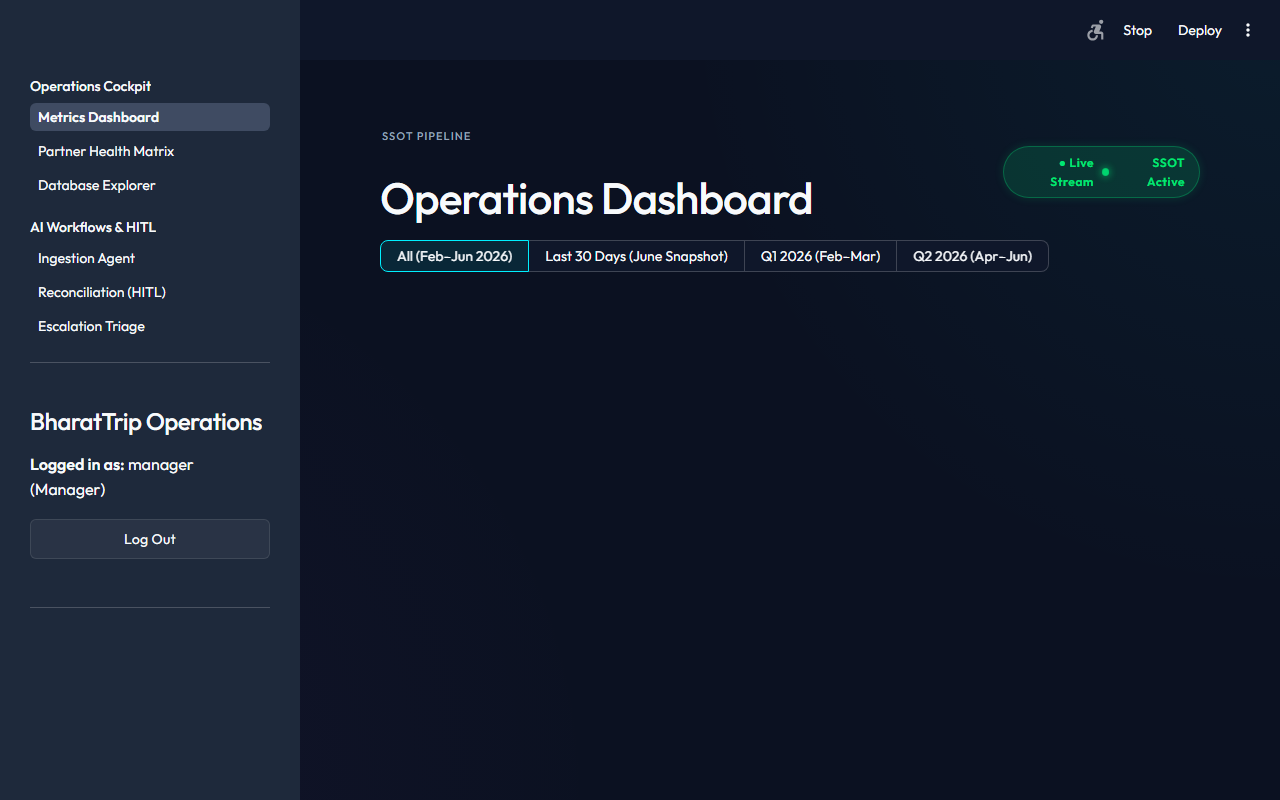
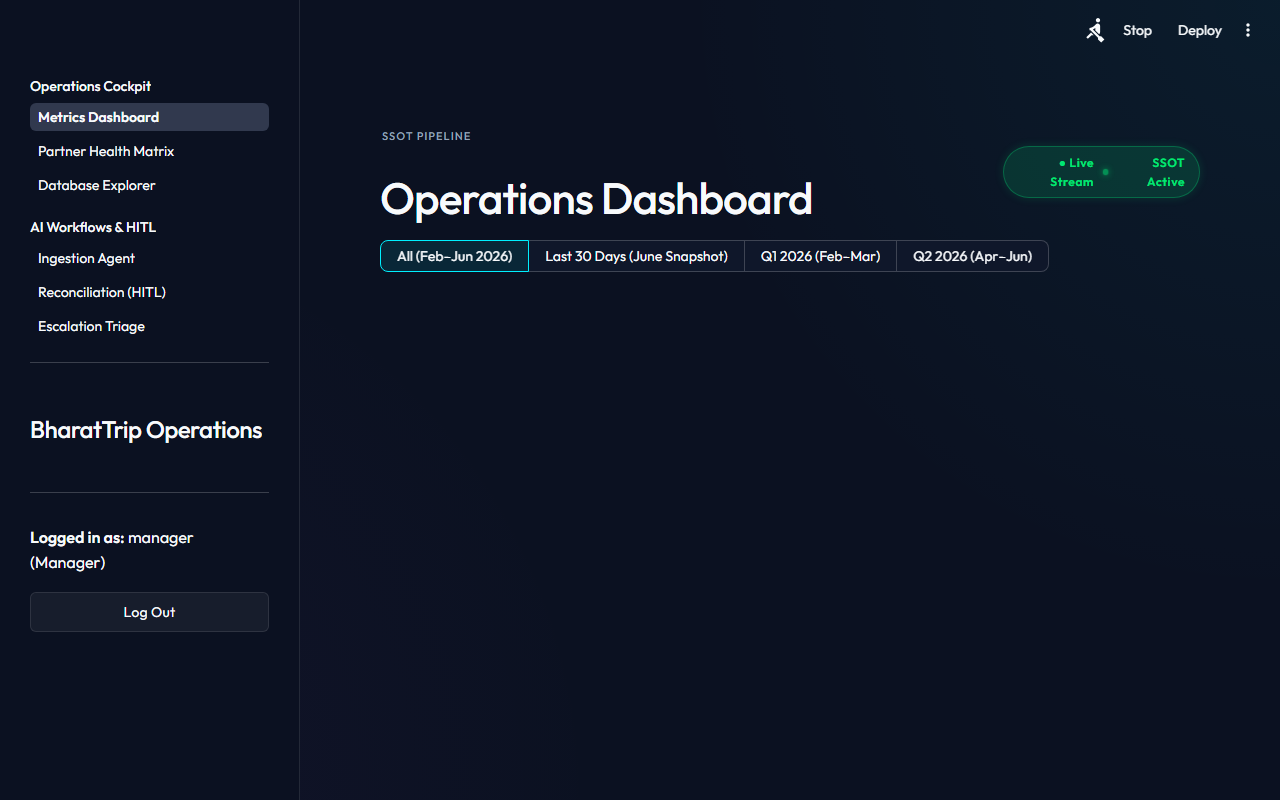
fixed hemburger menue

Changed region(s): [[0.0, 0.0, 0.25, 1.0], [0.8438, 0.0312, 0.9062, 0.0625], [0.9375, 0.0312, 0.9688, 0.0625]]

diff --git a/src/assets/style.css b/src/assets/style.css
@@ -39,6 +39,16 @@ html, body, [class*="css"], .stMarkdown, .stText, p, div, span, label, input, te
     color: var(--clr-text-primary);
 }
 
+/* Fix for Material Icons rendering as text ligatures */
+span.material-symbols-rounded,
+span.material-symbols-outlined,
+i.material-icons,
+.stIcon,
+.material-symbols-rounded,
+[data-testid="stIconMaterial"] {
+    font-family: "Material Symbols Rounded", "Material Symbols Outlined", "Material Icons", sans-serif !important;
+}
+
 h1, h2, h3, h4, h5, h6, [data-testid="stHeading"] {
     font-family: var(--font-sans) !important;
     font-weight: 500 !important;
@@ -203,4 +213,26 @@ body {
     user-select: none;
     -webkit-user-select: none;
     -ms-user-select: none;
+}
+
+/* Sidebar Fixes */
+section[data-testid="stSidebar"] {
+    background-color: var(--clr-bg) !important;
+    border-right: 1px solid var(--clr-border) !important;
+}
+
+[data-testid="stSidebarUserContent"] {
+    padding-top: 2rem;
+}
+
+/* Header & Hamburger Menu Fixes */
+header[data-testid="stHeader"] {
+    background-color: transparent !important;
+}
+
+header[data-testid="stHeader"] svg,
+[data-testid="collapsedControl"] svg,
+button[kind="header"] svg {
+    fill: var(--clr-text-primary) !important;
+    color: var(--clr-text-primary) !important;
 }

diff --git a/app.py b/app.py
@@ -28,6 +28,7 @@ from src.views import (
 # -----------------------------------------------------------------------------
 st.set_page_config(
     page_title="BharatTrip Operations",
+    page_icon="src/assets/logo.jpg",
     layout="wide",
     initial_sidebar_state="expanded"
 )
@@ -104,21 +105,10 @@ def main():
     if not check_password():
         return
         
-    st.sidebar.title("BharatTrip Operations")
-    
-    st.sidebar.markdown(f"**Logged in as:** {st.session_state.username} ({st.session_state.role})")
-    if st.sidebar.button("Log Out", use_container_width=True):
-        st.session_state.logged_in = False
-        st.session_state.role = None
-        st.session_state.username = None
-        if os.path.exists(".remember.json"):
-            os.remove(".remember.json")
-        st.rerun()
-        
-    st.sidebar.markdown("---")
+    st.logo("src/assets/logo.jpg")
     
     if not HAS_API_KEY:
-        st.sidebar.warning("`GEMINI_API_KEY` not found. Using mocked AI responses for demonstration.")
+        st.sidebar.warning("`GEMINI_API_KEY` not found. Using mocked responses.")
     
     # Load data into session state for mutability
     if 'support_df' not in st.session_state:
@@ -176,6 +166,17 @@ def main():
         }
 
     pg = st.navigation(nav_dict)
+    
+    st.sidebar.markdown("---")
+    st.sidebar.markdown(f"**Logged in as:** {st.session_state.username} ({st.session_state.role})")
+    if st.sidebar.button("Log Out", use_container_width=True):
+        st.session_state.logged_in = False
+        st.session_state.role = None
+        st.session_state.username = None
+        if os.path.exists(".remember.json"):
+            os.remove(".remember.json")
+        st.rerun()
+        
     pg.run()
 
 if __name__ == "__main__":

diff --git a/inspect_dom.py b/inspect_dom.py
@@ -1,0 +1,30 @@
+import asyncio
+from playwright.async_api import async_playwright
+
+async def main():
+    async with async_playwright() as p:
+        browser = await p.chromium.launch()
+        page = await browser.new_page()
+        await page.goto('http://localhost:8501')
+        await page.wait_for_selector('.stApp', timeout=15000)
+        await page.wait_for_timeout(3000)
+        
+        # Get the outer HTML of the sidebar toggle button wrapper
+        html = await page.evaluate('''() => {
+            const el = document.querySelector('[data-testid="collapsedControl"]');
+            return el ? el.outerHTML : "Not found";
+        }''')
+        print("Collapsed Control:", html)
+        
+        # Also check anything containing 'keyboard_double'
+        html2 = await page.evaluate('''() => {
+            const els = Array.from(document.querySelectorAll('*'));
+            const el = els.find(e => e.textContent && e.textContent.includes('keyboard_double') && e.children.length === 0);
+            return el ? el.outerHTML : "Not found";
+        }''')
+        print("Element with text:", html2)
+        
+        await browser.close()
+
+if __name__ == '__main__':
+    asyncio.run(main())
